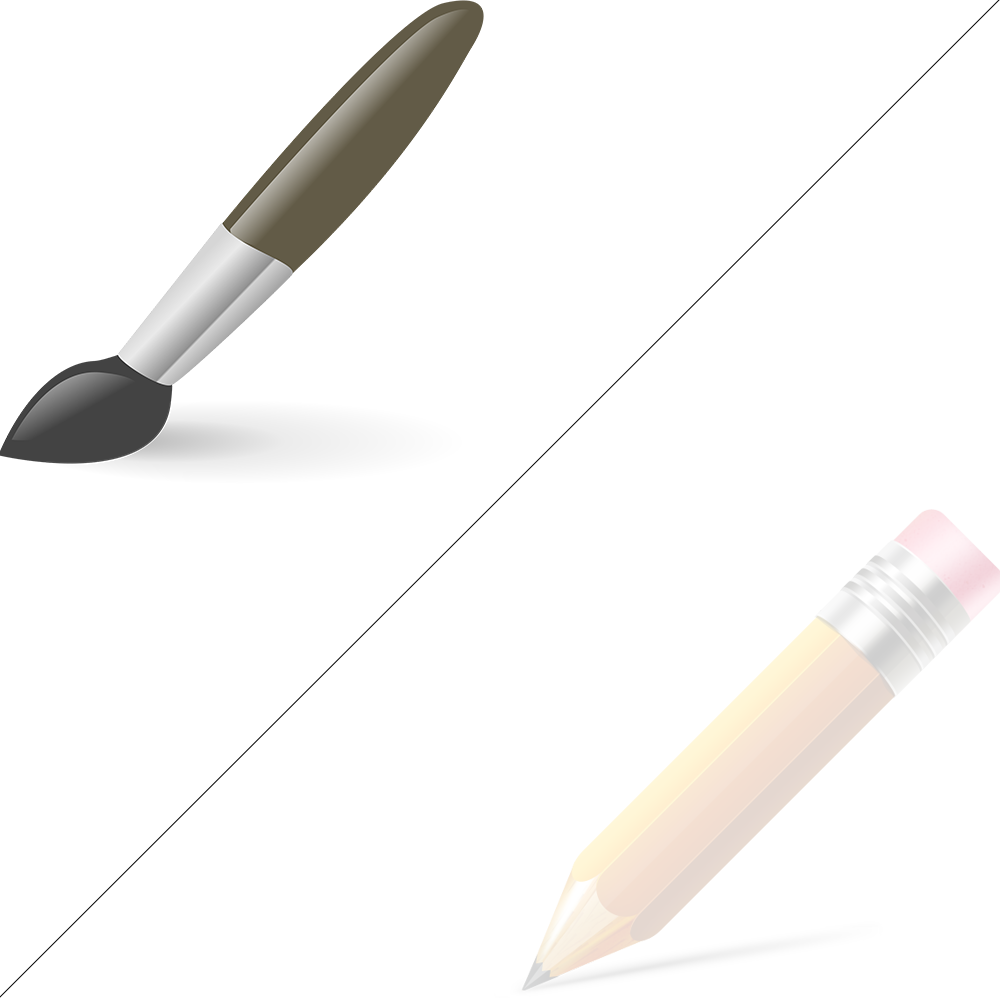
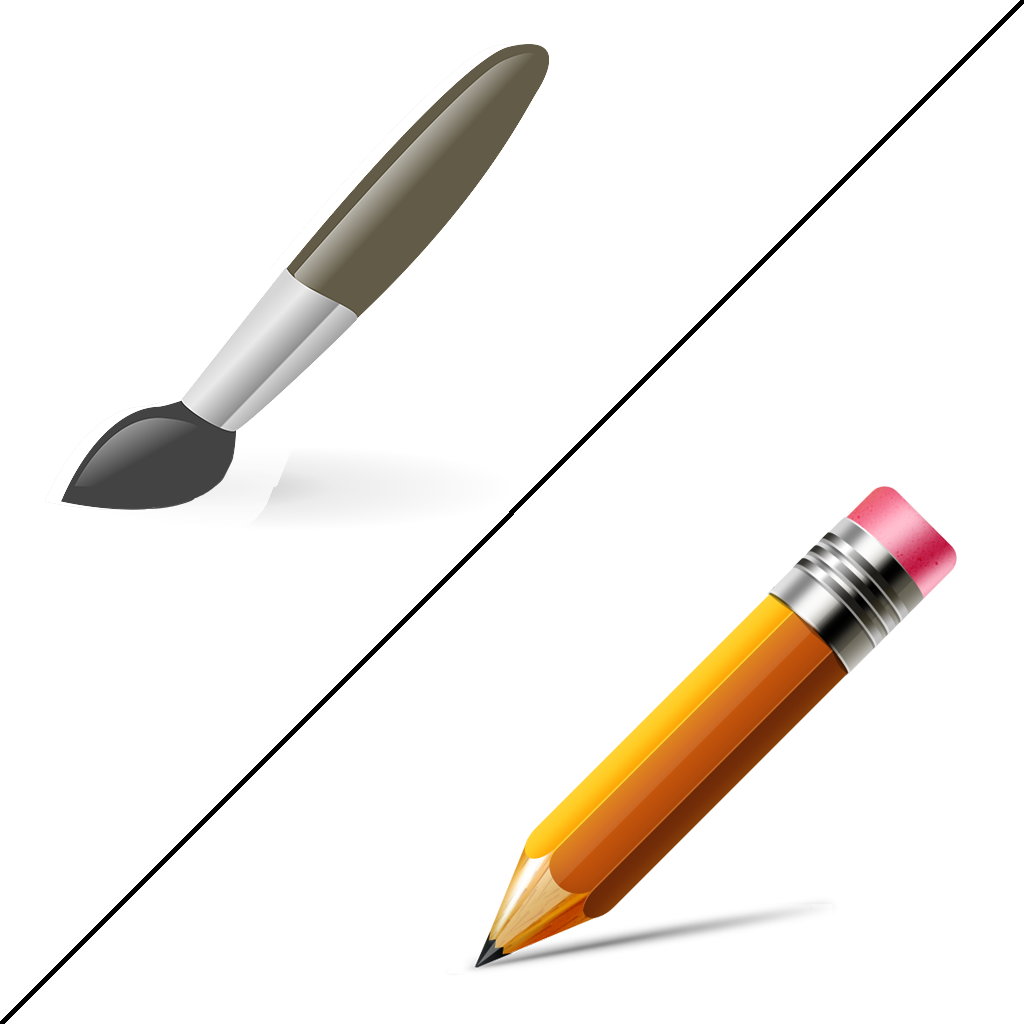
[Whiteboard] Image update
Former-commit-id: 080f5a9d7c1ec29ff029d9337a848e0494e53525
Former-commit-id: 23dc79aed9d39085f89a28e99dd4a5e38edf29f5

diff --git a/public/uploads/apps/WhiteboardPalette/WhiteboardPalette.js b/public/uploads/apps/WhiteboardPalette/WhiteboardPalette.js
@@ -64,25 +64,25 @@ var WhiteboardPalette = SAGE2_App.extend( {
 		var path = this.resrcPath + "/images/";
 		if (this.paletteMode == "default") {
 
-			var nRows = 10;
+			var nRows = 12;
 			var nCols = 10;
 
 			this.paletteButtons= [{name: "Clear",action: this.clearCanvas,icon: path+"/clear.png",parent: this,r: 0,c: 0,cSpan: 3,rSpan: 3},
 								  {name: "Undo",action: this.undoLast,icon: path+"/undo.png",parent: this,r: 3,c: 0,cSpan: 3,rSpan: 3},
 								  {name: "Redo",action: this.redoLast,icon: path+"/redo.png",parent: this,r: 6,c: 0,cSpan: 3,rSpan: 3},
-								  {name: "screenshot",action: this.takeScreenshot,icon: path+"/save.png",parent: this,r: 9,c: 0,cSpan: 3,rSpan: 1},
+								  {name: "screenshot",action: this.takeScreenshot,icon: path+"/screenshot.png",parent: this,r: 9,c: 0,cSpan: 3,rSpan: 3},
 								  {name: "Color",action: this.changeColor,parent: this,backgroundColor: "#77DD77",r: 4,c: 3,cSpan: 2,rSpan: 2},
 								  {name: "Color",action: this.changeColor,parent: this,backgroundColor: "black",r: 4,c: 5,cSpan: 2,rSpan: 2},
 								  {name: "Color",action: this.changeColor,parent: this,backgroundColor: "#779ECB",r: 6,c: 3,cSpan: 2,rSpan: 2},
 								  {name: "Color",action: this.changeColor,parent: this,backgroundColor: "#C23B22",r: 6,c: 5,cSpan: 2,rSpan: 2},
 								  {name: "Color",action: this.changeColor,parent: this,backgroundColor: "white",r: 8,c: 3,cSpan: 4,rSpan: 1},
-								  {name: "Color",action: this.colorPicker,parent: this,icon: path+"/brush.png",r: 9,c: 3,cSpan: 4,rSpan: 1},
+								  {name: "Color",action: this.colorPicker,parent: this,icon: path+"/color-picker.png",r: 9,c: 3,cSpan: 4,rSpan: 3},
 								  {name: "StrokeUp",action: this.changeStroke,increment: 1,parent: this,icon: path+"/up.png",r: 3,c: 5,cSpan: 2},
 								  {name: "Stroke",action: null,parent: this,content: "circle",r: 0,c: 3,cSpan: 4,rSpan: 3},
 								  {name: "StrokeDown",action: this.changeStroke,increment: -1,parent: this,icon: path+"/down.png",r: 3,c: 3,cSpan: 2},
 								  {name: "SaveButton",action: this.saveDrawings,parent: this,icon: path+"/save.png",r: 0,c: 7,cSpan: 3,rSpan: 3},
 								  {name: "loadButton",action: this.loadDrawings,parent: this,icon: path+"/load.png",r: 3,c: 7,cSpan: 3,rSpan: 3},
-								  {name: "selectionModeButton",action: this.selectionModeOnOff,parent: this,icon: path+"/load.png",r: 9,c: 7,cSpan: 3,rSpan: 1},
+								  {name: "selectionModeButton",action: this.selectionModeOnOff,parent: this,icon: path+"/selection.png",r: 9,c: 7,cSpan: 3,rSpan: 3},
 								  {name: "enablePaint",
 								  			action: this.paintingMode? this.disablePaintingMode: this.enablePaintingMode,
 								  			parent: this,icon: this.paintingMode? path + "/paintActive.png": path + "/paintNonActive.png",
